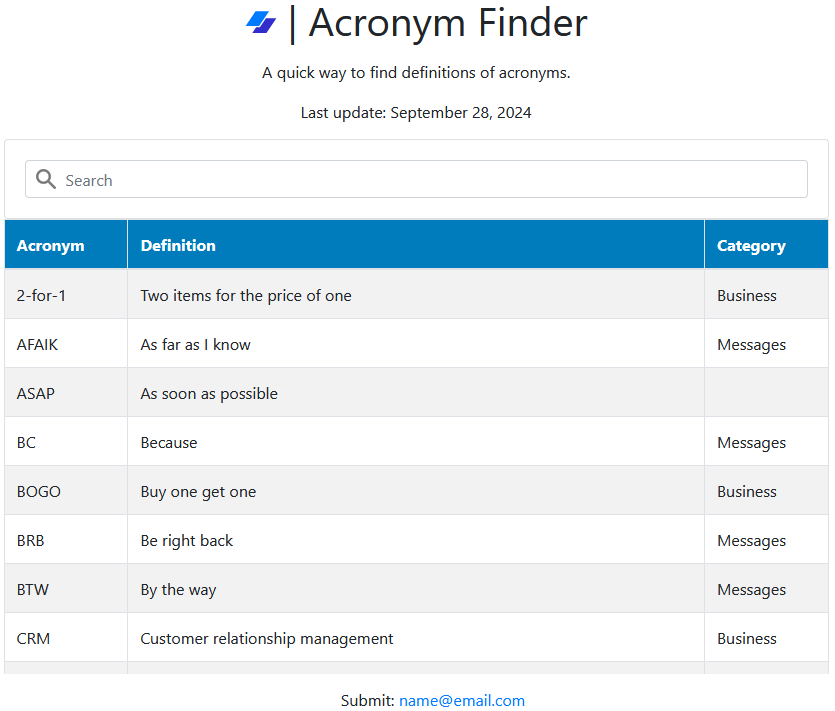
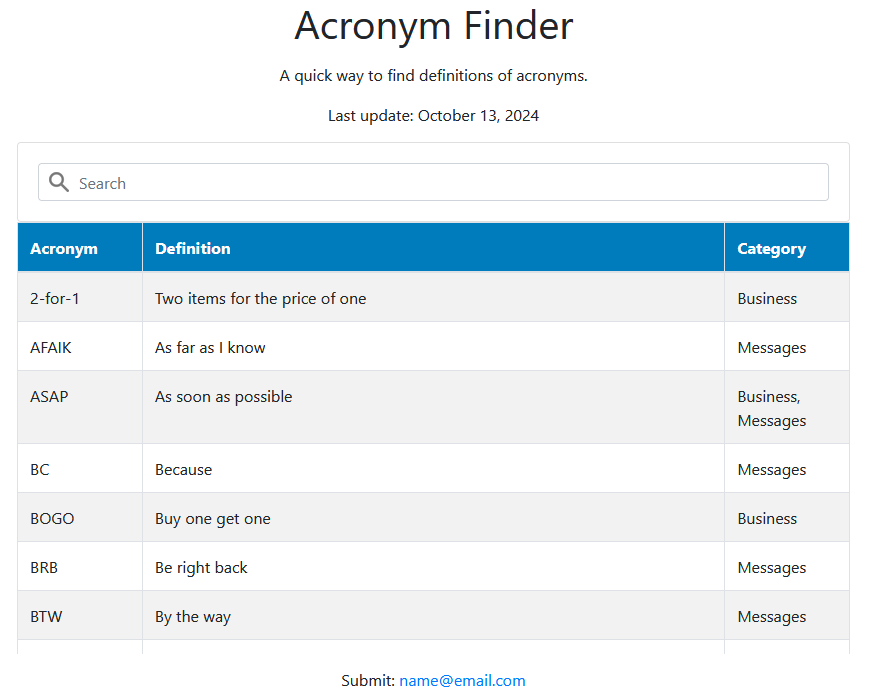
Update script to combine lists, add word script.

diff --git a/acronym_finder.html b/acronym_finder.html
@@ -13,8 +13,7 @@
   <body>
     <p style="text-align:center">
 	  <h1>
-	    <img src="https://img.logoipsum.com/245.svg" 
-		  alt="Logo" height="25pt" style="margin-bottom: 7px;"> | Acronym Finder
+	    Acronym Finder
       </h1>
 	</p>
     <p style="text-align:center">A quick way to find definitions of acronyms.</p>

diff --git a/find_acronyms_in_word_doc.py b/find_acronyms_in_word_doc.py
@@ -1,15 +1,24 @@
 #!/usr/bin/env python
 
-"""Script to combine and save acronym lists (csv or xlsx).""" 
+"""Script to find acronyms in a word doc or docx file.""" 
 
 import os
 from datetime import datetime
 import pandas as pd
+import re
+import docx
+from tkinter import Tk
+from tkinter.filedialog import askopenfilename
+
+# Browse for word file
+Tk().withdraw()
+filename = askopenfilename(filetypes=[("Microsoft Word files", ".doc .docx")],
+                           initialdir=os.getcwd())
 
 # Path to all lists
 folder = os.path.join(os.getcwd(),'lists')
 
-# Find all files and skip temp Excel files
+# File all files and skip temp Excel files
 allfiles = os.listdir(folder)
 allfiles = [file for file in allfiles if not file.startswith('~$')]
 
@@ -61,29 +70,31 @@ df = df.groupby([df['Acronym'].str.lower(),df['Definition'].str.lower()],
                 as_index=False).agg({'Acronym':'first','Definition':'first',
                                      'Category':", ".join})
 
-# Write javascript file
-acronym_list = os.path.join(os.getcwd(),'acronym_list.js')
-print('\nSaving combined list ...')
-with open('acronym_list.js', 'w') as file:
-    # Fill text
-    file.write('var acronymList = [\n')
+# Open docx file
+doc = docx.Document(filename)
 
-    # Write rows
-    for ii in range(len(df)):
-        row = ('  {"acronym":"%s",'
-               '"term":"%s",'
-               '"category":"%s"},\n')
-        row = row %tuple(df.iloc[ii][['Acronym',
-                                      'Definition',
-                                      'Category']])
-        
-        # Convert special characters
-        row = row.encode("ascii", "xmlcharrefreplace").decode("utf-8")
-        
-        file.write(row)
-    file.write(']\n')
+fullText = []
+for para in doc.paragraphs:
+    fullText.append(para.text)
+fullText = ''.join(fullText)
 
-    # Add date variable
-    datevar = 'var lastUpdate = "%s";'
-    file.write(datevar %datetime.today().strftime('%B %d, %Y'))
+# Loop through all acronyms
+acronyms_doc = []
+print('\nFind all acronyms in document ...')
+for ii, acronym in enumerate(df.Acronym):
+    # Search acronym
+    prog = re.compile('\W%s\W' %acronym, flags=re.IGNORECASE)
+    result = prog.findall(fullText)
+
+    # Add to list
+    if len(result) > 0:
+        acronyms_doc.append([acronym, df.Definition[ii]])
+
+# Save as Excel
+print('\nSaving Excel list ...')
+df_doc = pd.DataFrame(acronyms_doc)
+df_doc.columns = ['Acronyms','Definitions']
+df_doc.to_excel(os.path.splitext(filename)[0] + '.xlsx',
+                index=False)
+
 print('\nDone!')
